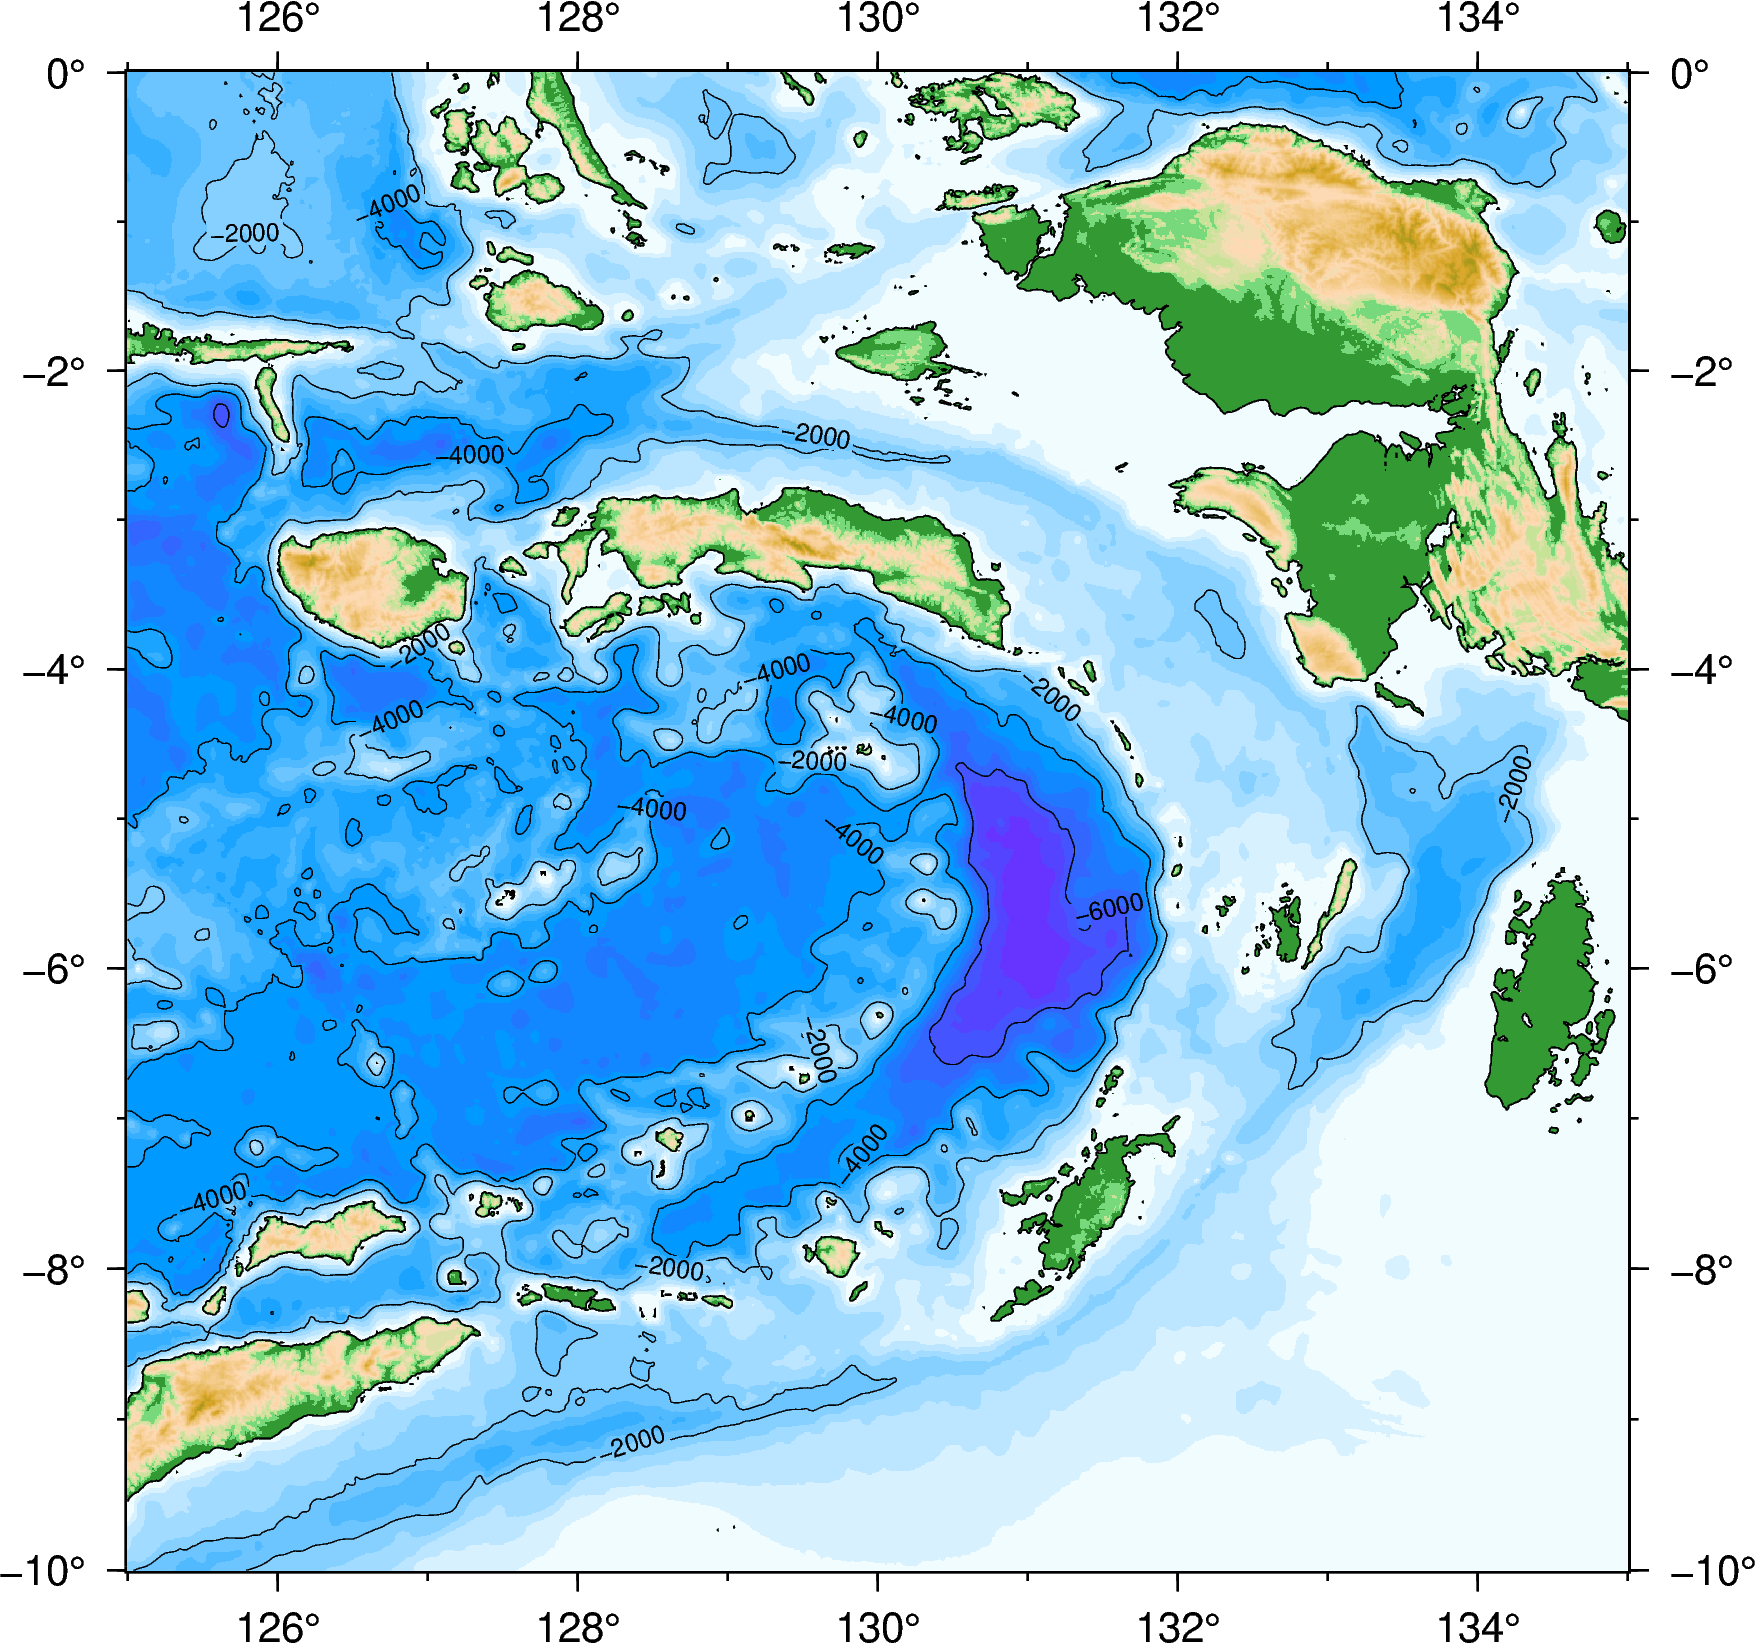
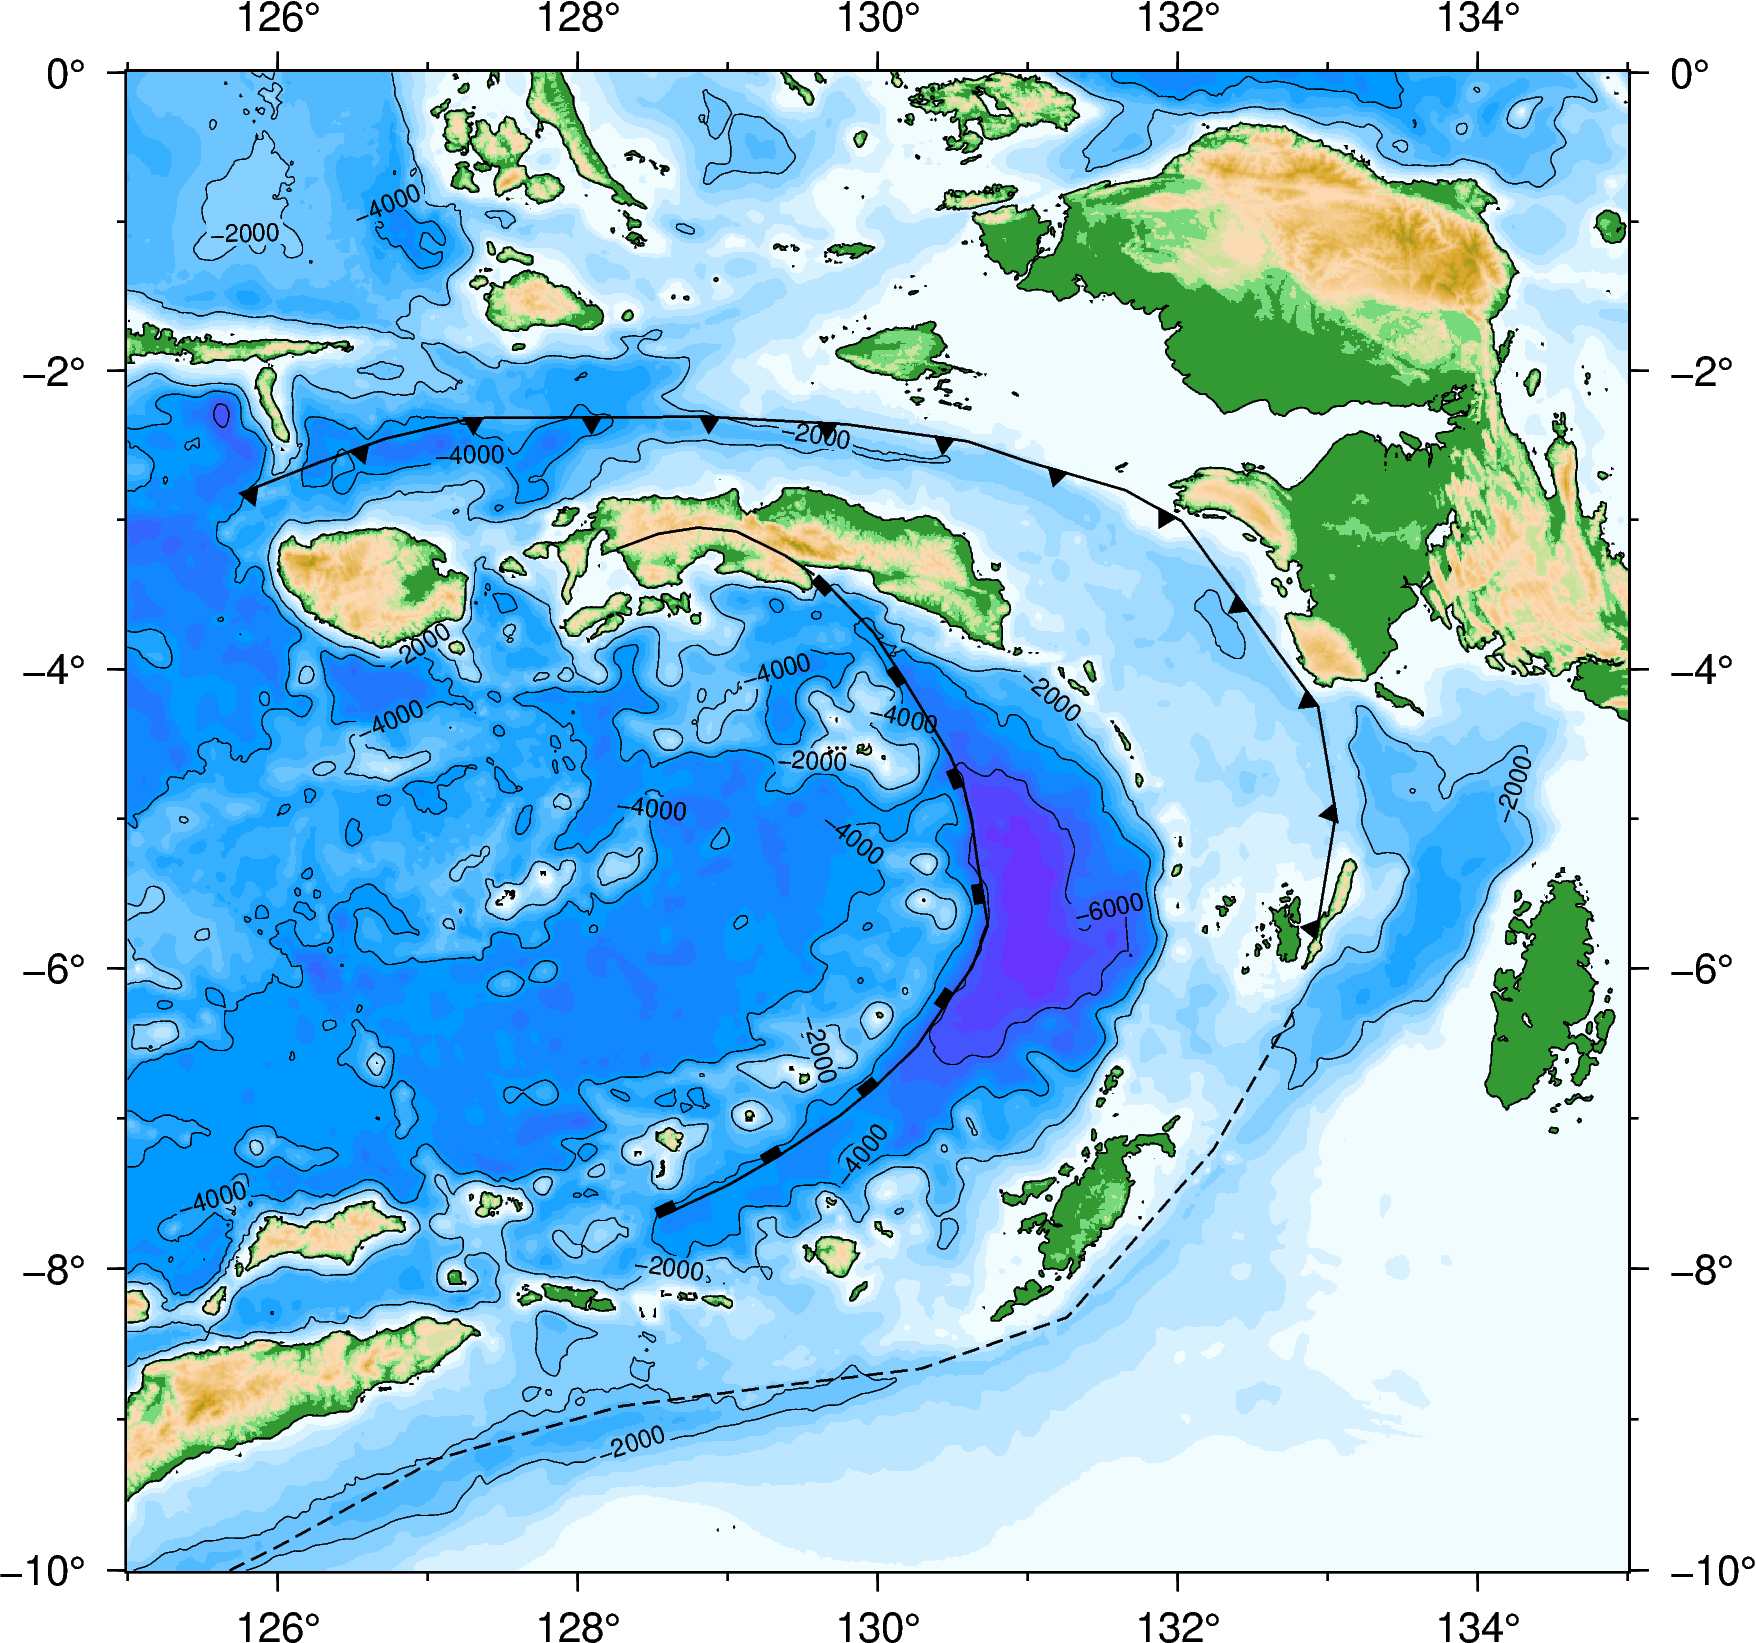
Updated script

diff --git a/scripts/Plotting_DEM_Faults.py b/scripts/Plotting_DEM_Faults.py
@@ -8,31 +8,70 @@ Created on Thu May 28 20:40:02 2020
 Basic to plot an elevation data and a tectonic fault shapefile
 --combination pygmt and cartopy
 """
-
+import numpy as np
 import pygmt
+import shapefile
+
+def reading_shapefile(infile):
+    shp = open(infile+'.shp','rb')
+    dbf = open(infile+'.dbf','rb')
+    shpfile = shapefile.Reader(shp=shp,dbf=dbf)
+    return shpfile
 
 
-###files needed
-dem = '../data/dem_gebco2014_cut.grd'
-
-###Prepare basemap using pygmt
-with pygmt.clib.Session() as session:
-    session.call_module('gmtset', 'MAP_FRAME_TYPE plain')           ## A simple frame
-    session.call_module('gmtset', 'FONT 10p')                       ## Fontsize for frame
+def main():
+    ###files needed
+    dem = '../data/dem_gebco2014_cut.grd'
+    faults = '../data/Tectonic_faults'
     
-fig = pygmt.Figure()
-fig.basemap(region=[125,135,-10,0],projection='M0/0/5i',frame=True)  ## Set region and projection
+    ###Prepare basemap using pygmt
+    with pygmt.clib.Session() as session:
+        session.call_module('gmtset', 'MAP_FRAME_TYPE plain')           ## A simple frame
+        session.call_module('gmtset', 'FONT 10p')                       ## Fontsize for frame
+        
+    fig = pygmt.Figure()
+    fig.basemap(region=[125,135,-10,0],projection='M0/0/5i',frame=True)  ## Set region and projection
+    
+    ###Colormap
+    demcpt = "dem.cpt"
+    pygmt.makecpt(cmap='globe', series="-10000/10000/100", output=demcpt )
+    
+    ###Plot data
+    fig.grdimage(dem,cmap=demcpt)
+    fig.grdcontour(dem, interval="2000", limit="-10000/-10", annotation=(True,"f6p"), 
+                   pen="0.2p")
+    fig.grdcontour(dem, interval="10000", pen="0.3p")
+    
+    ###Extract shapefile data
+    flt = reading_shapefile(faults)
+    Nfeatures = len(flt)                                                ## Number of features
+    #Nfeatures = 1
+    for i in range(Nfeatures):
+        gmtry = flt.shape(i)                                            ## Extract shapefile geometry
+        rcrds = flt.record(i)                                           ## Extract shapefile record/attribute
+        lon  = np.empty(len(gmtry.points))
+        lat  = np.empty(len(gmtry.points))
+        for j in range(len(gmtry.points)):                              ## Extract feature vertices
+            lon[j]  = gmtry.points[j][0]
+            lat[j]  = gmtry.points[j][1]
+        
+        if rcrds.Mechanism == 'Thrust':                                 ## Read fault mechanism
+            style = 'f1+r+t'
+            pen   = '0.5p'
+        elif rcrds.Mechanism == 'Normal':
+            style = 'f1+r+b'
+            pen   = '0.5p'
+        elif rcrds.Mechanism == 'Trough':
+            style = 'f1/0.00001'
+            pen   = '0.5p,-'
+        else:
+            style = 'f1/0.00001'
+            pen   = '0.5p'
+        
+        fig.plot(x=lon,y=lat,style=style,color='black',pen=pen)         ## Plot mechanism in GMT
+        
+    fig.savefig('../outputs/image.png',dpi=300)
 
-###Colormap
-demcpt = "dem.cpt"
-pygmt.makecpt(cmap='globe', series="-10000/10000/100", output=demcpt )
-
-###Plot data
-fig.grdimage(dem,cmap=demcpt)
-fig.grdcontour(dem, interval="2000", limit="-10000/-10", annotation=(True,"f6p"), 
-               pen="0.2p")
-fig.grdcontour(dem, interval="10000", pen="0.3p")
-
-fig.savefig('../outputs/image.png',dpi=300)
-
+if __name__ == "__main__":
+    main()
 

diff --git a/README.md b/README.md
@@ -1,1 +1,7 @@
 # Learn2Git
+
+Prepared by Ryan Pranantyo
+ignatiusryanpranantyo@gmail.com
+
+Goal:
+1) To plot elevation model and tectonic faults plane from shapefile
